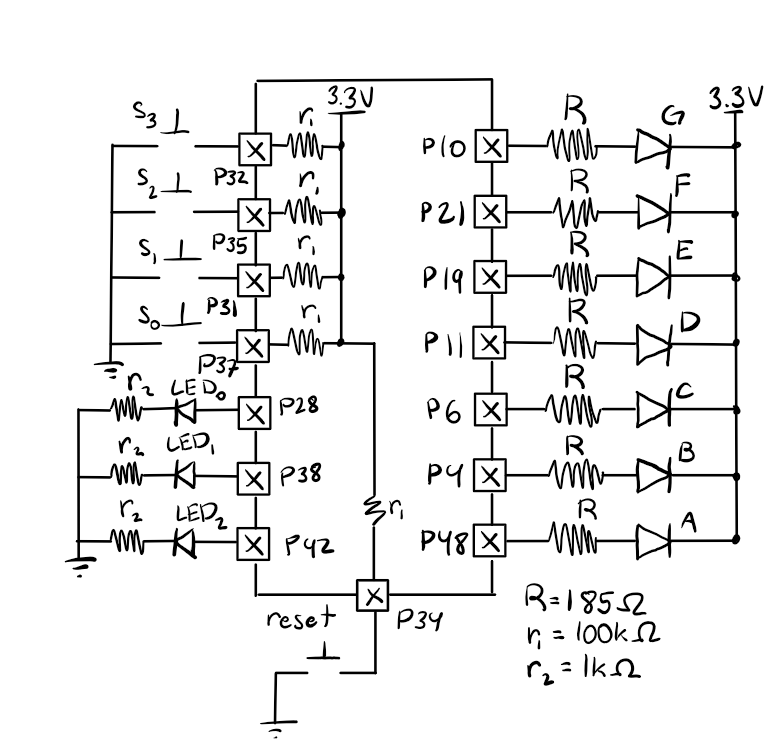
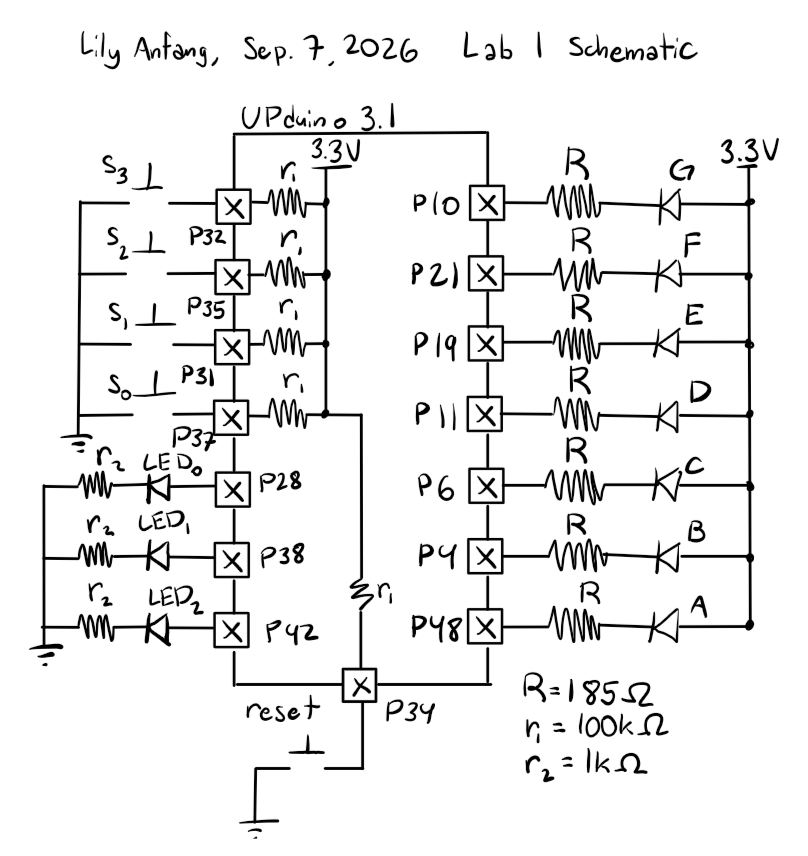
Built site for gh-pages

diff --git a/labs/lab 1/lab1.html b/labs/lab 1/lab1.html
@@ -291,7 +291,7 @@ ul.task-list li input[type="checkbox"] {
 <section id="hardware-results" class="level2">
 <h2 class="anchored" data-anchor-id="hardware-results">Hardware Results</h2>
 <p>To test on hardware, a switch was used for reset. As such, the code was modified to account for reset being low when pressed and otherwise high. This change was verified by modifying the testbench and it ran successfully.</p>
-<p>When uploaded to the board, the code ran successfully. A full sweep of the switch inputs showed both LEDs 0 and 1 as well as the 7-segment LED display had expected behavior. Additionally, LED 2 blinked 24 times over a 10 second period (shout out Enzo for helping me count), showing that it was blinking at a speed of 2.4Hz. The hardware setup for the board is shown below.</p>
+<p>When uploaded to the board, the code ran successfully and met all specifications. A full sweep of the switch inputs showed both LEDs 0 and 1 as well as the 7-segment LED display had expected behavior. Additionally, LED 2 blinked 24 times over a 10 second period (shout out Enzo for helping me count), showing that it was blinking at a speed of 2.4Hz. The hardware setup for the board is shown below.</p>
 <div class="callout callout-style-default callout-important callout-titled" title="hardware setup of board connected to 7-segment LED display">
 <div class="callout-header d-flex align-content-center" data-bs-toggle="collapse" data-bs-target=".callout-7-contents" aria-controls="callout-7" aria-expanded="true" aria-label="Toggle callout">
 <div class="callout-icon-container">

diff --git a/blog.html b/blog.html
@@ -213,7 +213,7 @@ window.Quarto = {
 
 <div class="quarto-listing quarto-listing-container-default" id="listing-listing">
 <div class="list quarto-listing-default">
-<div class="quarto-post image-right" data-index="0" data-categories="cmVmbGVjdGlvbiUyQ2xhYnJlcG9ydA==" data-listing-date-sort="1788505200000" data-listing-file-modified-sort="1788579301568" data-listing-date-modified-sort="NaN" data-listing-reading-time-sort="1" data-listing-word-count-sort="1">
+<div class="quarto-post image-right" data-index="0" data-categories="cmVmbGVjdGlvbiUyQ2xhYnJlcG9ydA==" data-listing-date-sort="1788505200000" data-listing-file-modified-sort="1788774737048" data-listing-date-modified-sort="NaN" data-listing-reading-time-sort="1" data-listing-word-count-sort="45">
 <div class="thumbnail"><a href="./posts/first-post.html" class="no-external">
 
 <div class="listing-item-img-placeholder card-img-top" >&nbsp;</div>
@@ -221,10 +221,10 @@ window.Quarto = {
 </a></div>
 <div class="body">
 <h3 class="no-anchor listing-title">
-<a href="./posts/first-post.html" class="no-external">Hello Quarto</a>
+<a href="./posts/first-post.html" class="no-external">First Week of MicroPs</a>
 </h3>
 <div class="delink listing-description"><a href="./posts/first-post.html" class="no-external">
-<p>Welcome to my Quarto portfolio</p>
+<p>Goals for the semester</p>
 </a></div>
 </div>
 <div class="metadata">

diff --git a/posts/first-post.html b/posts/first-post.html
@@ -8,9 +8,9 @@
 
 <meta name="author" content="Lily Anfang">
 <meta name="dcterms.date" content="2026-09-04">
-<meta name="description" content="Welcome to my Quarto portfolio">
+<meta name="description" content="Goals for the semester">
 
-<title>Hello Quarto – E155 Portfolio</title>
+<title>First Week of MicroPs – E155 Portfolio</title>
 <style>
 /* Default styles provided by pandoc.
 ** See https://pandoc.org/MANUAL.html#variables-for-html for config info.
@@ -133,7 +133,7 @@ ul.task-list li input[type="checkbox"] {
 
 <header id="title-block-header" class="quarto-title-block default">
 <div class="quarto-title">
-<h1 class="title">Hello Quarto</h1>
+<h1 class="title">First Week of MicroPs</h1>
   <div class="quarto-categories">
     <div class="quarto-category">reflection</div>
     <div class="quarto-category">labreport</div>
@@ -142,7 +142,7 @@ ul.task-list li input[type="checkbox"] {
 
 <div>
   <div class="description">
-    Welcome to my Quarto portfolio
+    Goals for the semester
   </div>
 </div>
 
@@ -171,6 +171,7 @@ ul.task-list li input[type="checkbox"] {
 </header>
 
 
+<p>I want to use this semester to get more comfortable with coding so that I can independently code in grad school and function at an industry level. Additionally, I want to try coding more complex programs. I also really want to code more FSMs.</p>
 
 
 
